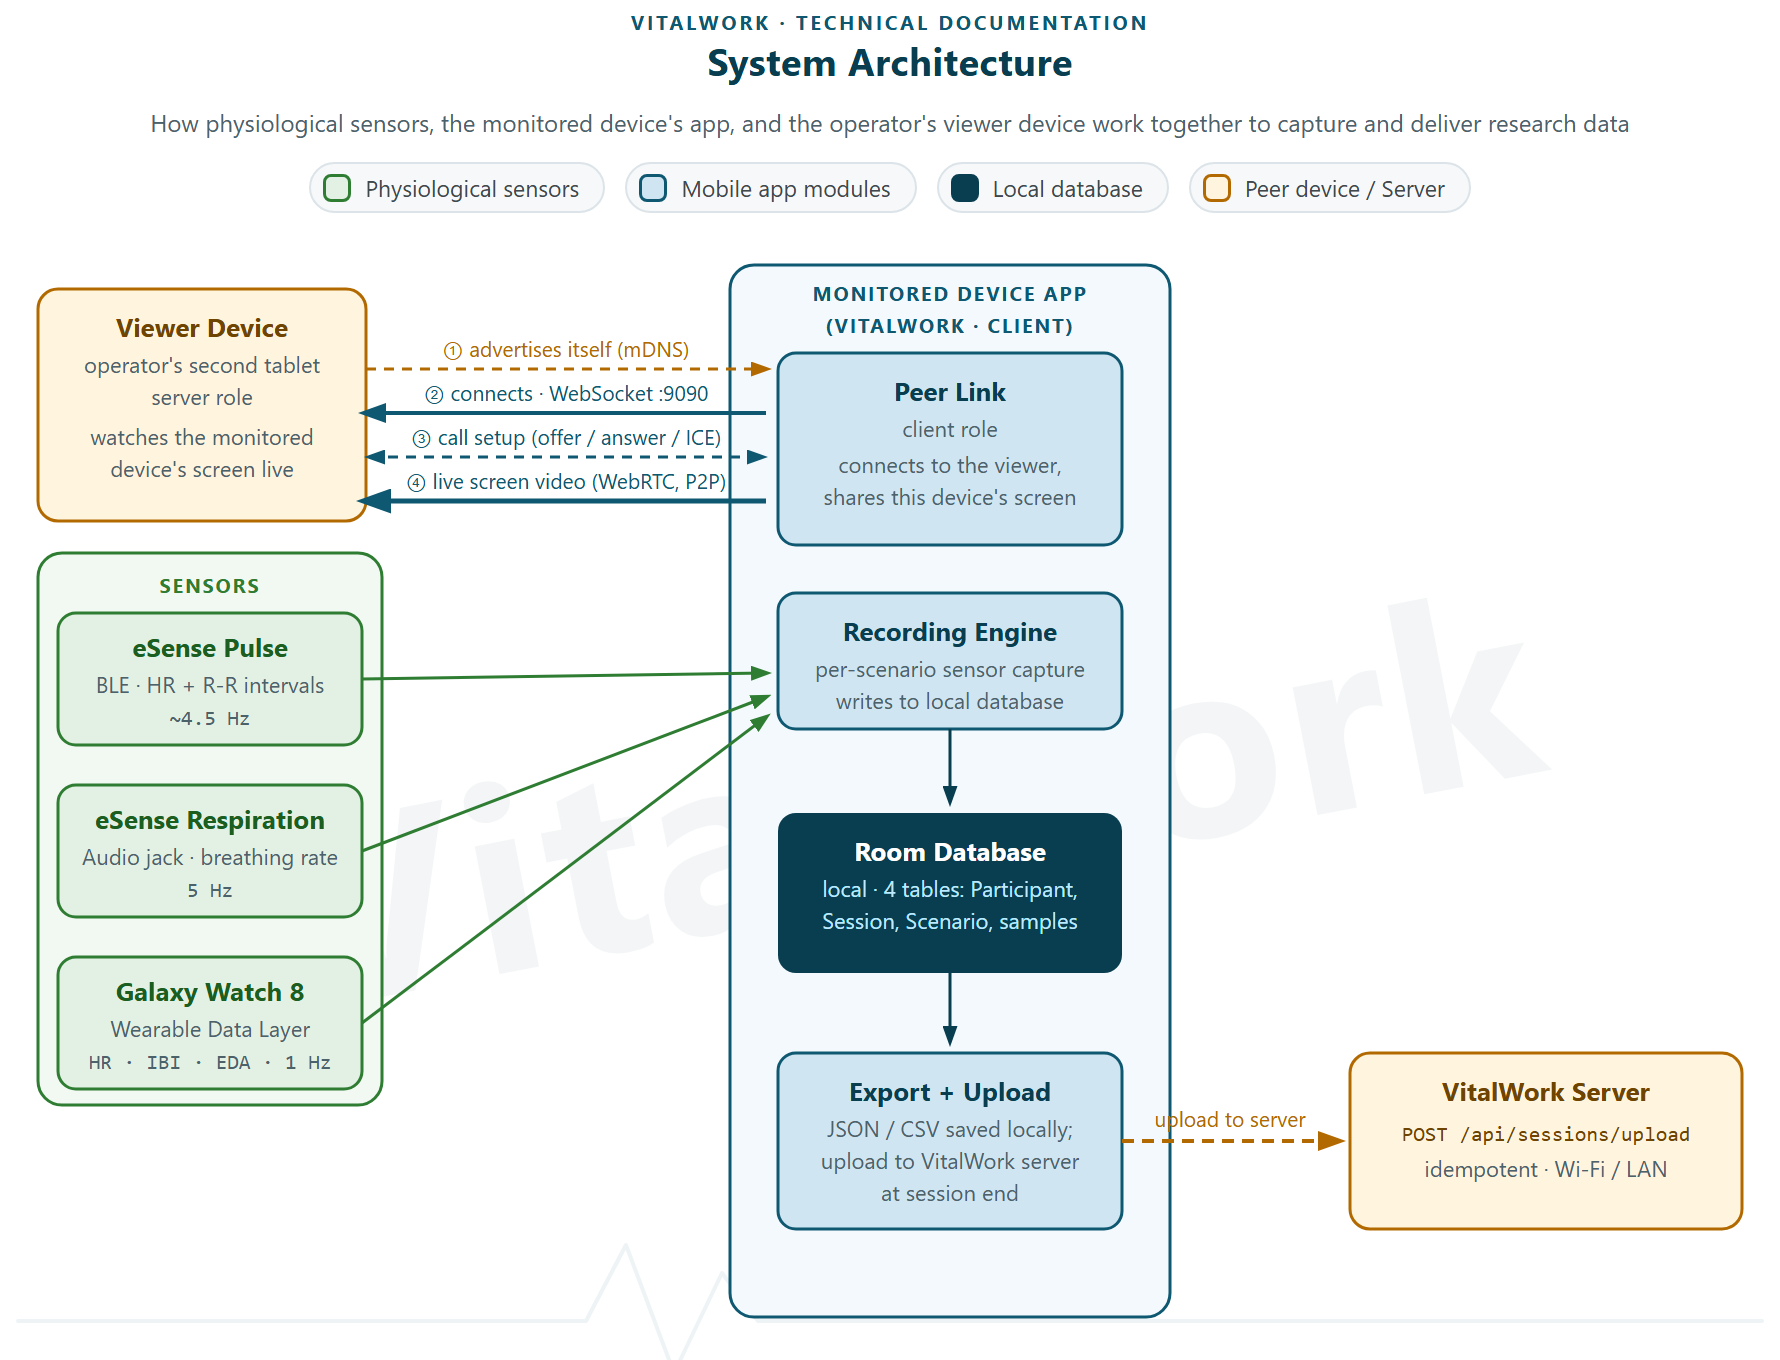
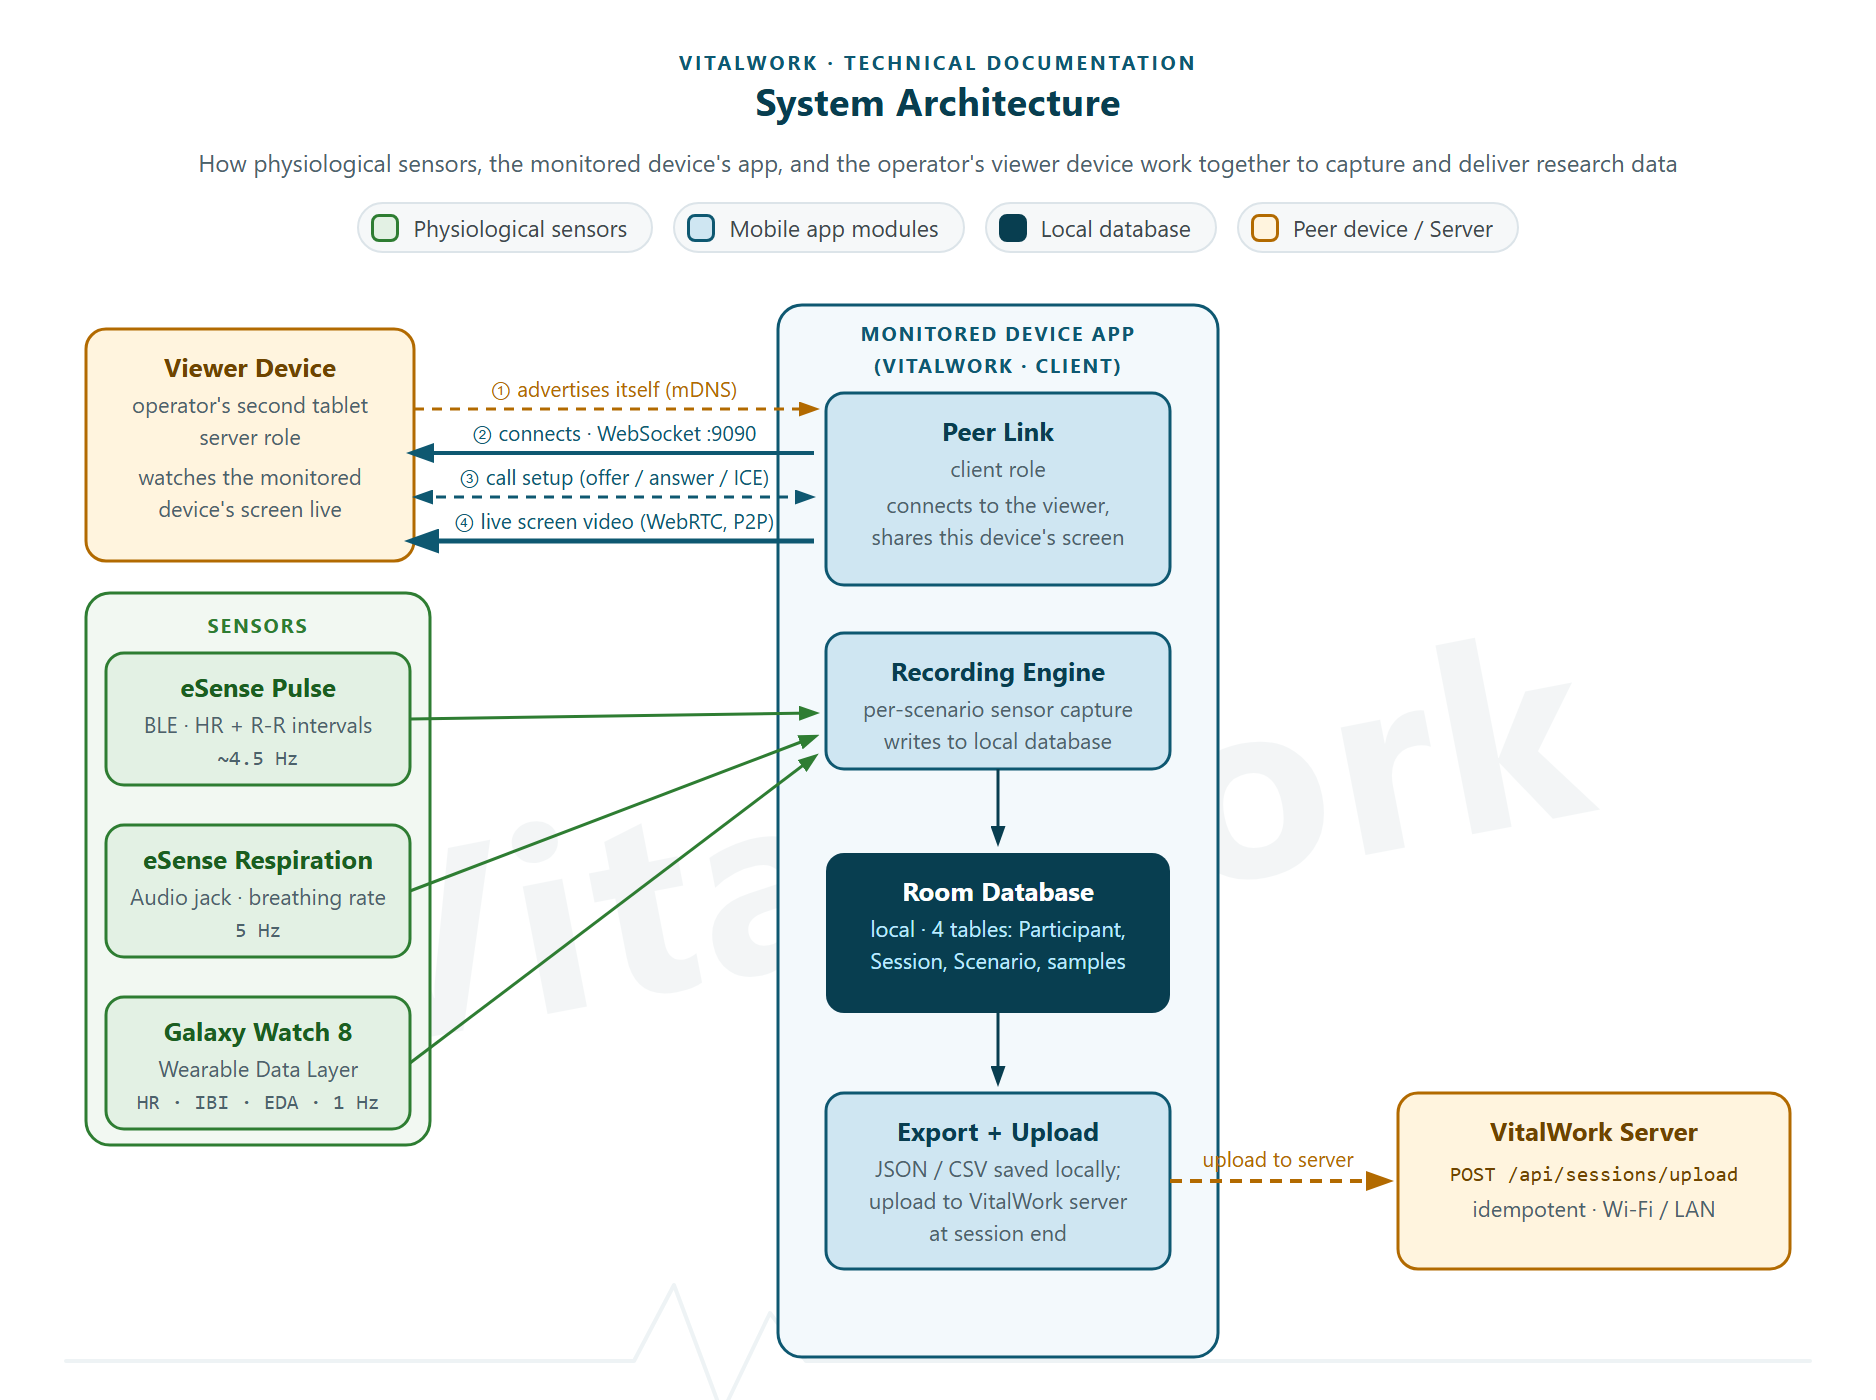
Update operational manual and workflow diagram for the readiness/sensor gates
The last four commits (tappable sensor cards, setup-screen sensor gate,
in-scenario no-sensor banner, pre-session battery/notification gate)
changed operator-facing behavior that the grant documentation still
described in its pre-change form.

Update the operational manual (EN/SK) §5 and §7.2 to describe: the
disabled "Start New Session" state and its Fix flow, the "Proceed to
scenarios" gate requiring at least one connected sensor, and the new
"No sensor connected" in-scenario banner. Update the operator session
workflow diagram (02_operator_session_workflow_en.html) to match, and
re-render all diagram PNGs via render_diagrams.py.

diff --git a/doc/grant_RAP_126/diagrams/02_operator_session_workflow_en.html b/doc/grant_RAP_126/diagrams/02_operator_session_workflow_en.html
@@ -15,14 +15,15 @@
   }
   body > * { position: relative; z-index: 1; }
 
-  /* Watermark */
+  /* Watermark — fixed to the viewport (not body) so it can't sit below the actual content when the
+     window is taller than the rendered flow, which would otherwise defeat png autocrop. */
   .wm {
-    position: absolute; z-index: 0; left: 50%; top: 55%;
+    position: fixed; z-index: 0; left: 50%; top: 55%;
     transform: translate(-50%, -50%) rotate(-10deg);
     font-size: 150px; font-weight: 700; letter-spacing: 0.02em;
     color: #083E50; opacity: 0.035; white-space: nowrap; pointer-events: none;
   }
-  .ecg { position: absolute; z-index: 0; left: 0; bottom: 6px; width: 100%; opacity: 0.07; pointer-events: none; }
+  .ecg { position: fixed; z-index: 0; left: 0; bottom: 6px; width: 100%; opacity: 0.07; pointer-events: none; }
 
   /* Header — centered, compact */
   .head-text { text-align: center; margin-bottom: 4px; }
@@ -140,7 +141,7 @@
     <div class="step-row" style="align-items:center;">
       <div class="step s-teal">
         <span class="title">Ready?</span><span class="who">📱</span>
-        <span class="sub">permissions · Bluetooth · battery</span>
+        <span class="sub">battery + notifications must be granted · BLE/mic checked at connect</span>
       </div>
       <div class="h-arr ha-teal"></div>
       <div class="step s-teal">
@@ -150,10 +151,10 @@
       <div class="h-arr ha-teal"></div>
       <div class="step s-teal">
         <span class="title">Sensor Setup Gate</span><span class="who">👤</span>
-        <span class="sub">connect &amp; confirm Pulse · Respiration · Watch · tap Proceed</span>
+        <span class="sub">connect Pulse · Respiration · Watch · Proceed unlocks with ≥ 1 sensor</span>
       </div>
     </div>
-    <div class="loop-note">↺ Not ready → fix prerequisites, then retry</div>
+    <div class="loop-note">↺ Prerequisites missing → “Start New Session” stays disabled until fixed via the warning card</div>
   </div>
   <div class="conn c-teal"></div>
 
@@ -184,6 +185,7 @@
         <span class="sub">scenario closed · pick next, or end</span>
       </div>
     </div>
+    <div class="loop-note">↺ No sensor connected → “No sensor connected” banner; countdown &amp; recording wait until one connects</div>
   </div>
   <div class="conn c-amber"></div>
 

diff --git a/doc/grant_RAP_126/02_operational_manual_sk.md b/doc/grant_RAP_126/02_operational_manual_sk.md
@@ -163,6 +163,14 @@ dýchania, nie počet nádychov za minútu).
 ## 5. Zadanie účastníka a spustenie sedenia
 
 1. Na domovskej obrazovke ťuknite na **Start New Session**.
+
+   > **Ak je tlačidlo neaktívne (sivé)** s poznámkou *„Fix the warnings above to start"*, tabletu
+   > chýba nastavenie, bez ktorého sedenie nemôže bezpečne bežať — **výnimka z optimalizácie
+   > batérie** alebo **povolenie notifikácií** (bez nich môže systém pri vypnutej obrazovke potichu
+   > ukončiť nahrávanie a celé sedenie by sa stratilo). Použite tlačidlá **Fix** vo varovnej karte
+   > v hornej časti domovskej obrazovky; tlačidlo sa odomkne hneď po udelení oboch povolení.
+   > Obnovenie už bežiaceho sedenia nie je nikdy blokované.
+
 2. Zobrazí sa formulár **New Participant**:
    - **Participant code** — automaticky generovaný (napr. `A-004-260722-115828`). Iba na čítanie —
      nepokúšajte sa ho upraviť.
@@ -175,7 +183,10 @@ dýchania, nie počet nádychov za minútu).
 
 4. Aplikácia otvorí **obrazovku nastavenia senzorov** — jednorazovú kontrolu pred začiatkom nahrávania
    (pozri §4 a snímku vyššie). Ťuknite na **Proceed to scenarios**, akonáhle sú potrebné senzory
-   pripojené.
+   pripojené. Tlačidlo zostáva neaktívne (s poznámkou *„Connect at least one sensor to continue."*),
+   kým nie je pripojený **aspoň jeden senzor** — bráni to spusteniu scenára, ktorý by nezaznamenal
+   žiadne dáta. Odpojené senzory majú prerušovaný (čiarkovaný) okraj so štítkom **Tap to connect**;
+   ťuknutie kdekoľvek na takúto kartu spustí jej pripájanie.
 
 > Foreground služba udržiava senzory a (ak je zapnuté) aj spojenie medzi zariadeniami aktívne aj pri
 > vypnutej obrazovke tabletu, takže operátor nemusí tablet držať nepretržite v ruke.
@@ -250,6 +261,10 @@ tlačidlo **End Session & Save** na konci.
 > Ak sa senzor počas scenára odpojí, zobrazí sa banner („… odpojený — nahrávanie pokračuje —
 > pripojte ho znova, aby sa obnovilo zaznamenávanie dát"). Časovač scenára beží ďalej; senzor
 > pripojte čo najskôr, aby bola medzera v dátach daného scenára čo najmenšia.
+
+> Ak sa scenár otvorí **bez jediného pripojeného senzora** (napríklad senzor vypadol medzi
+> nastavením a scenárom), zobrazí sa banner **„No sensor connected"** a nespustí sa ani nahrávanie,
+> ani odpočet. O nič neprichádzate — pripojte senzor a scenár sa začne normálne.
 
 ---
 

diff --git a/doc/grant_RAP_126/02_operational_manual_en.md b/doc/grant_RAP_126/02_operational_manual_en.md
@@ -158,6 +158,14 @@ breaths per minute).
 ## 5. Creating a participant and starting a session
 
 1. On the Home screen, tap **Start New Session**.
+
+   > **If the button is grayed out** with the note *"Fix the warnings above to start"*, the tablet is
+   > missing a setting the session cannot safely run without — the **battery-optimization exemption**
+   > or the **notification permission** (without them, the system can silently kill the recording
+   > while the screen is off and the whole session would be lost). Use the **Fix** buttons in the
+   > warning card at the top of the Home screen; the button unlocks as soon as both are granted.
+   > Resuming an already-running session is never blocked.
+
 2. The **New Participant** form appears:
    - **Participant code** — automatically generated (e.g. `A-004-260722-115828`). Read-only — do not
      try to edit it.
@@ -170,7 +178,10 @@ breaths per minute).
 
 4. The app opens the **sensor-setup screen** — a one-time check to confirm sensors before recording
    starts (see §4 and the screenshot above). Tap **Proceed to scenarios** once the sensors you need are
-   connected.
+   connected. The button stays disabled (with the hint *"Connect at least one sensor to continue."*)
+   until **at least one sensor is connected** — this prevents starting a scenario that would record no
+   data. Disconnected sensors show a dashed border with a **Tap to connect** pill; tapping anywhere on
+   such a card starts its connection flow.
 
 > A foreground service keeps the sensors and (if enabled) the device link alive even while the tablet
 > screen is off, so the operator does not have to hold the tablet continuously.
@@ -242,6 +253,10 @@ After the sensor-setup screen, the **scenario hub** is shown — one card per sc
 > If a sensor disconnects mid-scenario, a banner appears ("… disconnected — Recording continues —
 > reconnect to resume data capture"). The scenario keeps its timer running; reconnect the sensor as
 > soon as possible to minimize the gap in that scenario's data.
+
+> If a scenario is opened with **no sensor connected at all** (for example, a sensor dropped between
+> setup and the scenario), a **"No sensor connected"** banner appears and neither the recording nor
+> the countdown starts. Nothing is lost — connect a sensor and the scenario begins normally.
 
 ---
 
